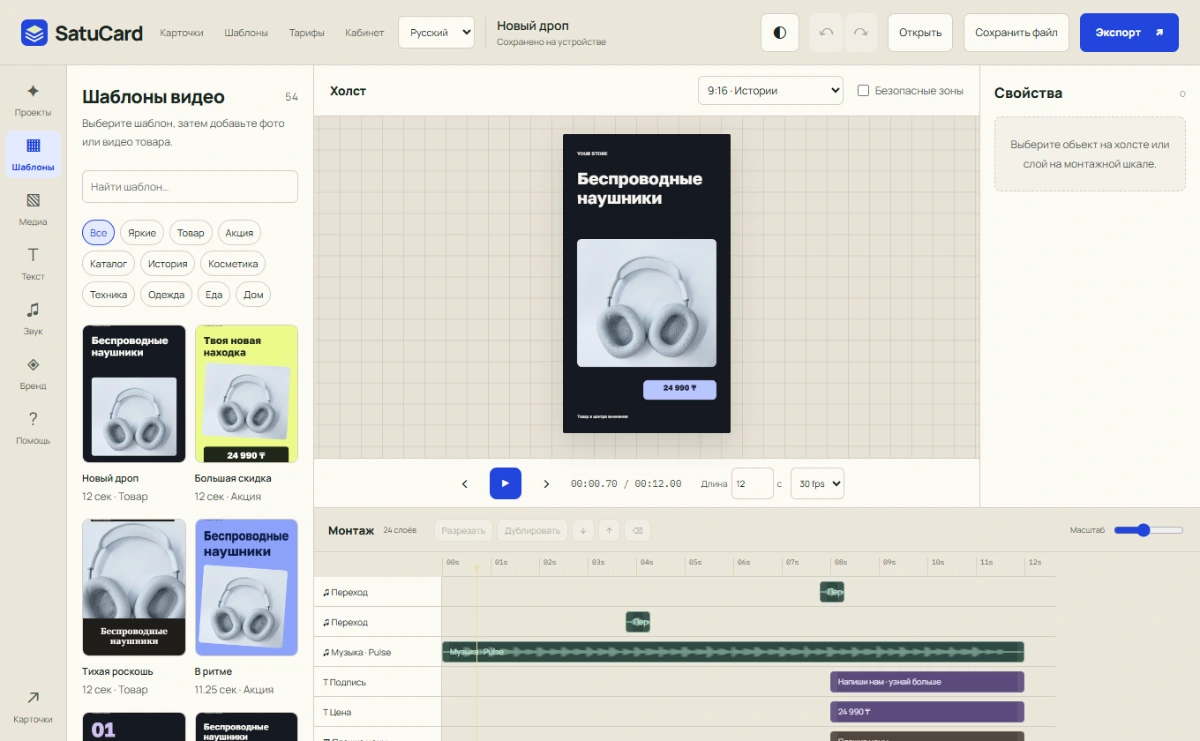
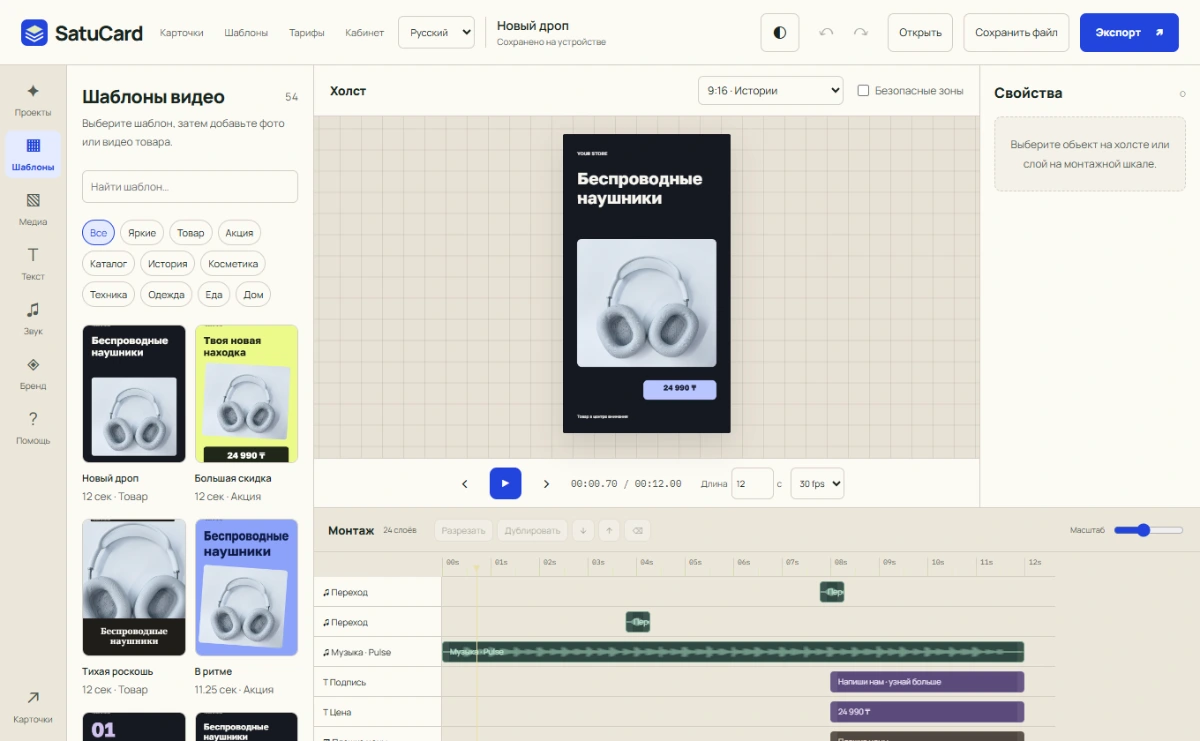
Polish mobile video templates and editor focus

Changed region(s): [[0.0, 0.0, 1.0, 0.0931]]

diff --git a/SatuCard-team-starter/catalog-workbench.css b/SatuCard-team-starter/catalog-workbench.css
@@ -176,6 +176,10 @@ html[data-theme="dark"] .studio-page {
   color: var(--work-on-action);
 }
 
+.studio-page .ai-floating-launch:hover {
+  background: var(--work-accent-hover);
+}
+
 .studio-page .studio-form {
   padding: 20px;
 }
@@ -289,6 +293,17 @@ html[data-theme="dark"] .studio-page {
     min-width: min(100%, 144px);
   }
 
+  .studio-page .studio-start > label {
+    display: block;
+    position: absolute;
+    width: 1px;
+    height: 1px;
+    margin: -1px;
+    overflow: hidden;
+    clip-path: inset(50%);
+    white-space: nowrap;
+  }
+
   .studio-page .studio-mobile-view {
     transform: none;
     margin: 16px auto;
@@ -341,7 +356,8 @@ html[data-theme="light"]:has(.video-workbench) {
   background: var(--work-paper);
 }
 
-.video-workbench .topbar {
+.video-workbench .topbar,
+html[data-theme="light"] .video-workbench .topbar {
   gap: 12px;
   padding-inline: 24px;
   background: var(--work-surface);
@@ -703,7 +719,8 @@ html[data-theme="light"] .video-workbench .rail {
 }
 
 @media (max-width: 900px) {
-  .video-workbench .topbar {
+  .video-workbench .topbar,
+  html[data-theme="light"] .video-workbench .topbar {
     gap: 8px;
     padding-inline: 12px;
   }
@@ -716,6 +733,10 @@ html[data-theme="light"] .video-workbench .rail {
   .video-workbench .library {
     max-height: 44dvh;
     padding: 16px;
+  }
+
+  .video-workbench .library:has([data-library="templates"]:not([hidden])) {
+    max-height: none;
   }
 
   .video-workbench .template-grid {
@@ -763,16 +784,32 @@ html[data-theme="light"] .video-workbench .rail {
   }
 
   .video-workbench .video-help-tip {
+    display: grid;
+    grid-template-columns: minmax(0, 1fr) auto;
+    gap: 4px 8px;
     padding: 12px;
+  }
+
+  .video-workbench .video-help-tip :is(strong, p, .primary) {
+    grid-column: 1 / -1;
+  }
+
+  .video-workbench .video-help-tip p {
+    margin: 0;
   }
 
   .video-workbench .video-help-tip button {
     min-height: 44px;
+    margin: 0;
+    padding-inline: 6px;
+    font-size: 11px;
   }
 
   .video-workbench .video-help-tip .help-manual {
-    margin-block: 8px 0;
-    padding-block: 8px;
+    display: flex;
+    align-items: center;
+    min-height: 44px;
+    margin: 0;
   }
 
   .video-workbench .stage {

diff --git a/SatuCard-team-starter/video.html b/SatuCard-team-starter/video.html
@@ -23,7 +23,7 @@
       <a href="dashboard.html">Кабинет</a>
     </nav>
     <div class="project-heading"><input id="project-name" aria-label="Название проекта" maxlength="100" value="Новый дроп"><span id="save-status" role="status">Загружаем студию…</span></div>
-    <button class="theme-toggle" type="button" data-theme-toggle aria-label="Переключить тему" aria-pressed="true"><span aria-hidden="true">◐</span></button>
+    <button class="theme-toggle" type="button" data-theme-toggle aria-label="Тёмная тема" aria-pressed="false"><span aria-hidden="true">◐</span></button>
     <div class="history-actions"><button id="undo" title="Отменить · Ctrl+Z" aria-label="Отменить">↶</button><button id="redo" title="Повторить · Ctrl+Shift+Z" aria-label="Повторить">↷</button></div>
     <button id="open-project">Открыть</button><button id="save-file">Сохранить файл</button><button id="export" class="primary">Экспорт <span>↗</span></button>
   </header>
